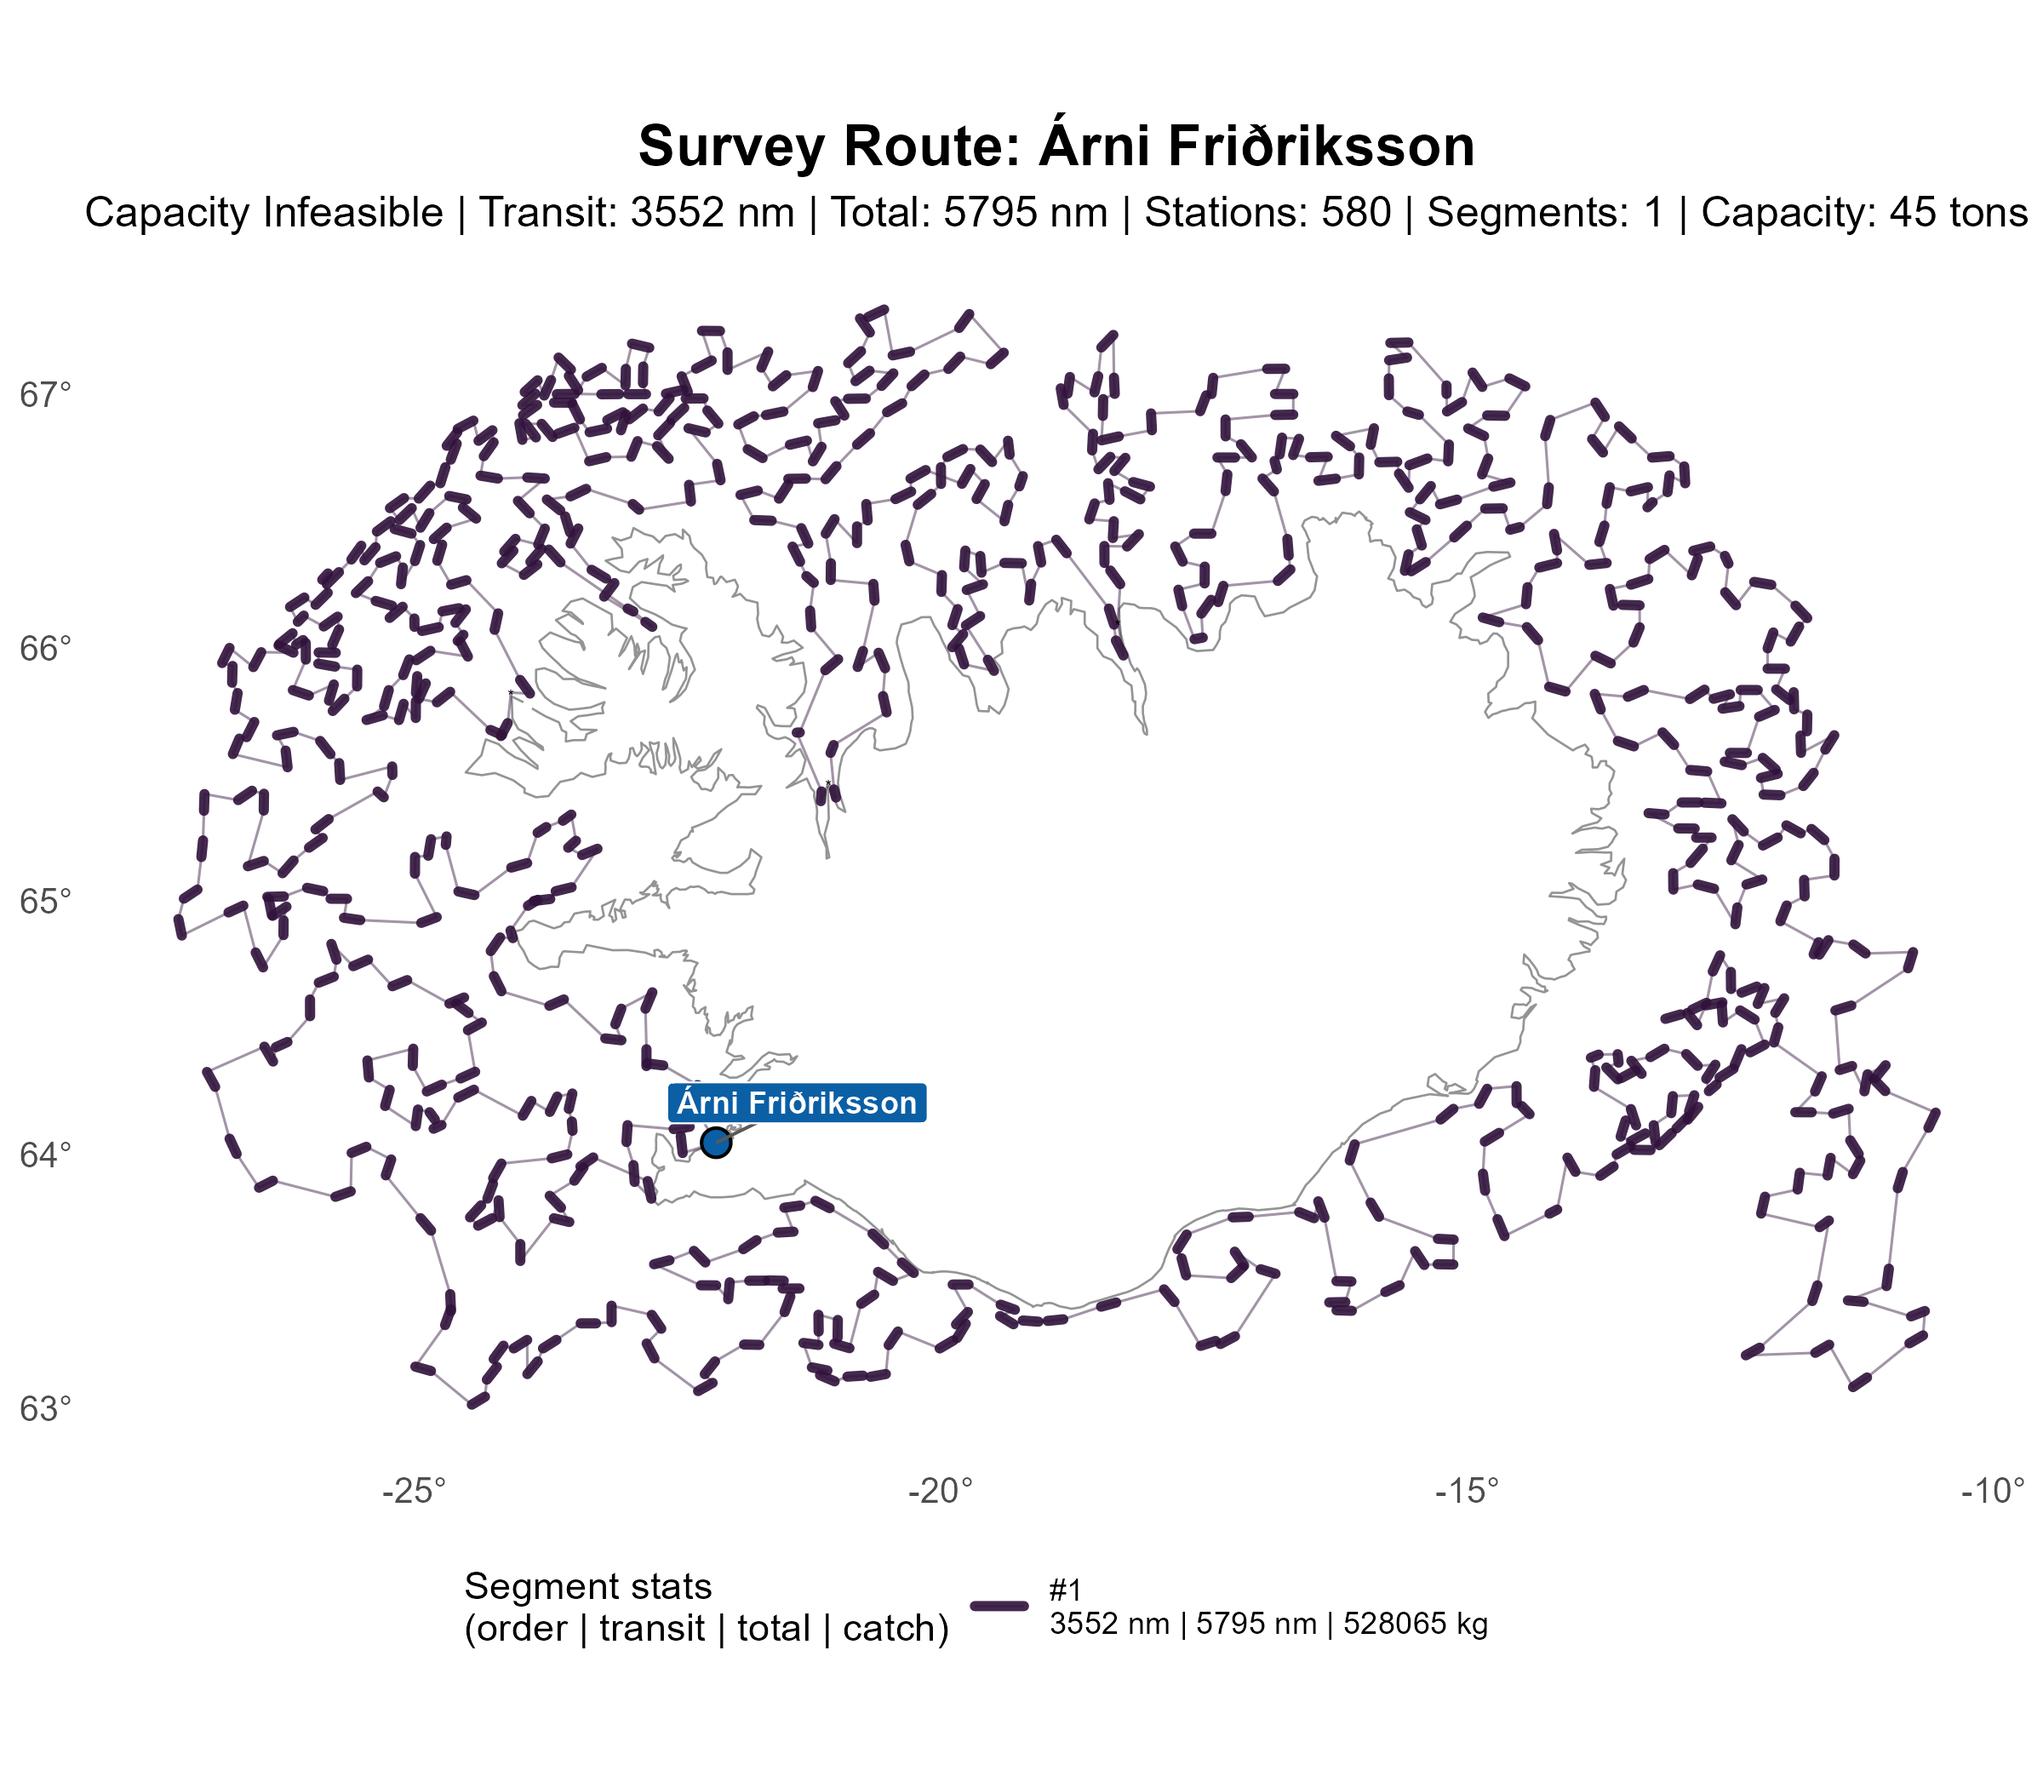
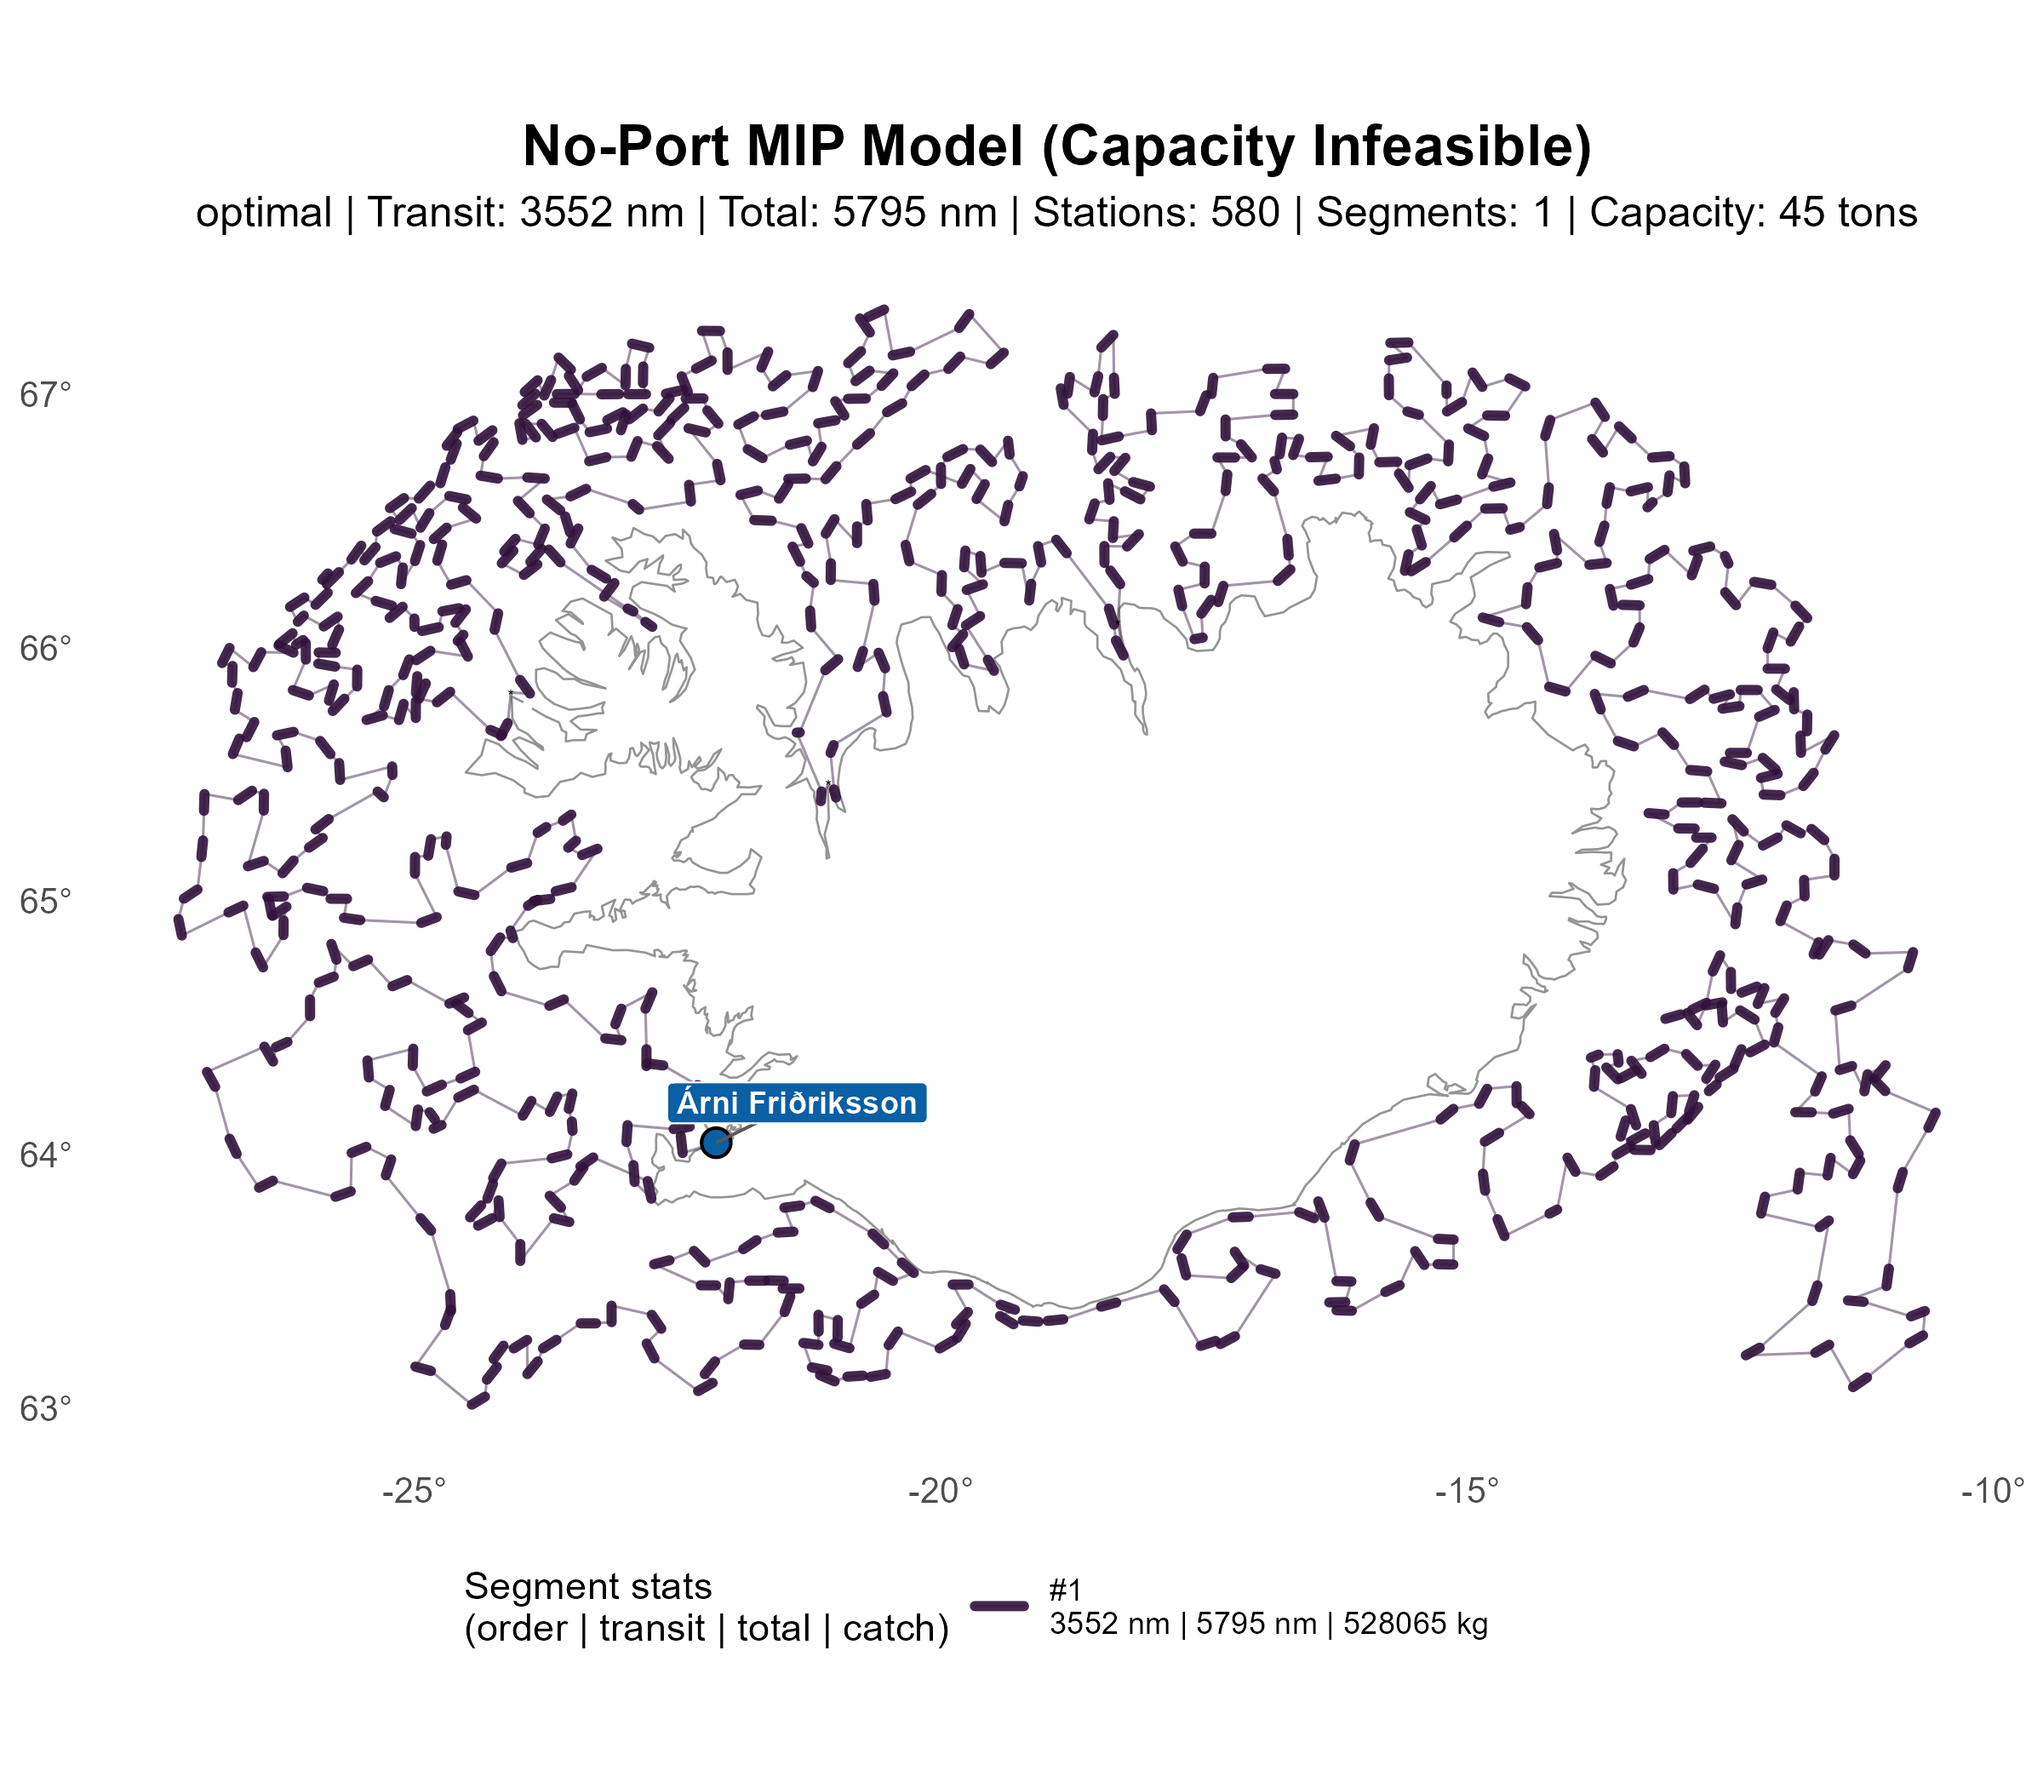
Enhance solver stats output and port candidate management
Add detailed solver statistics (Gurobi status, runtime, MIP gap) to JSON output for fixed-port and no-port MIP models. Introduce `remove_one_candidate_port` function to manage port candidates dynamically. Update R plotting logic to reflect solver status in titles/subtitles.

Changed region(s): [[0.0625, 0.0619, 1.0, 0.1238]]

diff --git a/src/init/fixedport_order_main.c b/src/init/fixedport_order_main.c
@@ -451,6 +451,16 @@ static int load_candidate_port_location_ids(const char *path, int **out_values, 
     return ok;
 }
 
+static void remove_one_candidate_port(int *values, int *count, int location_id) {
+    if (!values || !count || *count <= 0) return;
+    for (int i = *count - 1; i >= 0; i--) {
+        if (values[i] != location_id) continue;
+        for (int j = i; j + 1 < *count; j++) values[j] = values[j + 1];
+        (*count)--;
+        return;
+    }
+}
+
 static int load_port_lookup(sqlite3 *db, port_info_t **out_ports, int *out_count) {
     sqlite3_stmt *stmt = NULL;
     port_info_t *ports = NULL;
@@ -818,6 +828,19 @@ static int write_fixedport_json(sqlite3 *db,
     summary.mip_gap_mean = solution->gap * 100.0;
     summary.mip_gap_max = solution->gap * 100.0;
     gsp_write_summary_json(fp, "  ", &summary, 0);
+    fprintf(fp, ",\n");
+    fprintf(fp, "  \"solver_stats\": {\n");
+    fprintf(fp, "    \"status\": \"%s\",\n",
+            (solution->status == MIP_STATUS_OPTIMAL) ? "optimal" :
+            (solution->status == MIP_STATUS_TIME_LIMIT) ? "time_limit" :
+            (solution->status == MIP_STATUS_SUBOPTIMAL) ? "suboptimal" : "failed");
+    fprintf(fp, "    \"gurobi_status\": \"%s\",\n", mip_gurobi_status_name(solution->status));
+    fprintf(fp, "    \"gurobi_status_code\": %d,\n", solution->status);
+    fprintf(fp, "    \"runtime_seconds\": %.6f,\n", solution->runtime_seconds);
+    fprintf(fp, "    \"total_runtime_seconds\": %.6f,\n", total_runtime_seconds);
+    fprintf(fp, "    \"method\": \"fixedport_mip\",\n");
+    fprintf(fp, "    \"mip_gap\": %.6f\n", solution->gap);
+    fprintf(fp, "  }\n");
     fprintf(fp, "}\n");
     fclose(fp);
 
@@ -915,6 +938,8 @@ int main(int argc, char **argv) {
         fprintf(stderr, "Failed to initialize fixedport debug instance\n");
         goto cleanup;
     }
+
+    remove_one_candidate_port(candidate_ports, &candidate_port_count, app.boat.location_id);
 
     t_after_load = clock();
     mip_instance.boat = &app.boat;

diff --git a/src/init/noport_order_main.c b/src/init/noport_order_main.c
@@ -593,6 +593,8 @@ static int write_noport_json(sqlite3 *db,
             (solution->status == MIP_STATUS_OPTIMAL) ? "optimal" :
             (solution->status == MIP_STATUS_TIME_LIMIT) ? "time_limit" :
             (solution->status == MIP_STATUS_SUBOPTIMAL) ? "suboptimal" : "failed");
+    fprintf(fp, "    \"gurobi_status\": \"%s\",\n", mip_gurobi_status_name(solution->status));
+    fprintf(fp, "    \"gurobi_status_code\": %d,\n", solution->status);
     fprintf(fp, "    \"preprocessing_seconds\": %.6f,\n", preprocessing_seconds);
     fprintf(fp, "    \"runtime_seconds\": %.6f,\n", solution->runtime_seconds);
     fprintf(fp, "    \"total_runtime_seconds\": %.6f,\n", total_runtime_seconds);
